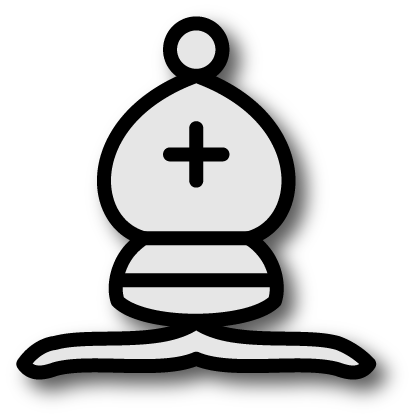
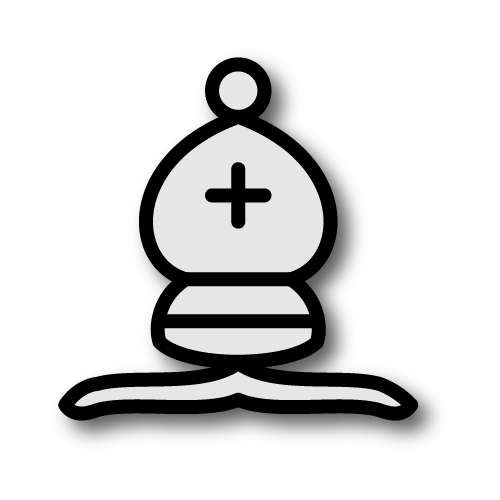
Adjusted piece images to line up with each other.

diff --git a/src/app/board/board.component.ts b/src/app/board/board.component.ts
@@ -1,4 +1,5 @@
-import { Component, OnInit } from '@angular/core';
+import { preserveWhitespacesDefault } from '@angular/compiler';
+import { Component, Input, OnInit } from '@angular/core';
 import { Color, PieceComponent, Type } from '../piece/piece.component';
 import { Space, SpaceComponent } from '../space/space.component';
 
@@ -10,8 +11,11 @@ import { Space, SpaceComponent } from '../space/space.component';
 export class BoardComponent implements OnInit {
   brown: boolean = false;
   public spaces = new Array();
+  playerIsWhite: boolean = true;
 
   constructor() {
+    let playerColor = this.playerIsWhite ? Color.white : Color.black;
+    let cpuColor = this.playerIsWhite ? Color.black : Color.white;
     for (let col = 0; col < 8; col++) {
       this.spaces[col] = new Array();
       for (let row = 0; row < 8; row++) {
@@ -20,35 +24,35 @@ export class BoardComponent implements OnInit {
         switch(col) {
           case 0:
           case 7:
-            if (row == 0) this.spaces[col][row].setPiece(Type.rook, Color.white);
-            if (row == 7) this.spaces[col][row].setPiece(Type.rook, Color.black);
+            if (row == 0) this.spaces[col][row].setPiece(Type.rook, cpuColor);
+            if (row == 7) this.spaces[col][row].setPiece(Type.rook, playerColor);
             break;
           case 1:
           case 6:
-            if (row == 0) this.spaces[col][row].setPiece(Type.knight, Color.white);
-            if (row == 7) this.spaces[col][row].setPiece(Type.knight, Color.black);
+            if (row == 0) this.spaces[col][row].setPiece(Type.knight, cpuColor);
+            if (row == 7) this.spaces[col][row].setPiece(Type.knight, playerColor);
             break;
           case 2:
           case 5:
-            if (row == 0) this.spaces[col][row].setPiece(Type.bishop, Color.white);
-            if (row == 7) this.spaces[col][row].setPiece(Type.bishop, Color.black);
+            if (row == 0) this.spaces[col][row].setPiece(Type.bishop, cpuColor);
+            if (row == 7) this.spaces[col][row].setPiece(Type.bishop, playerColor);
             break;
           case 3:
-            if (row == 0) this.spaces[col][row].setPiece(Type.king, Color.white);
-            if (row == 7) this.spaces[col][row].setPiece(Type.king, Color.black);
+            if (row == 0) this.spaces[col][row].setPiece(Type.king, cpuColor);
+            if (row == 7) this.spaces[col][row].setPiece(Type.king, playerColor);
             break;
           case 4:
-            if (row == 0) this.spaces[col][row].setPiece(Type.queen, Color.white);
-            if (row == 7) this.spaces[col][row].setPiece(Type.queen, Color.black);
+            if (row == 0) this.spaces[col][row].setPiece(Type.queen, cpuColor);
+            if (row == 7) this.spaces[col][row].setPiece(Type.queen, playerColor);
             break;  
         }
 
         if (row == 1) {
-          this.spaces[col][row].setPiece(Type.pawn, Color.white);
+          this.spaces[col][row].setPiece(Type.pawn, cpuColor);
         }
 
         if (row == 6) {
-          this.spaces[col][row].setPiece(Type.pawn, Color.black);
+          this.spaces[col][row].setPiece(Type.pawn, playerColor);
         }
       }
     }

diff --git a/src/app/space/space.component.css b/src/app/space/space.component.css
@@ -15,7 +15,7 @@ img {
 
 .piece {
     position: absolute;
-    /* width: 5%; */
-    transform: translate(90px, -400px);
+    /* background-color: greenyellow; */
+    transform: translate(-15px, -475px);
     z-index: 100;
 }

diff --git a/src/app/app.component.ts b/src/app/app.component.ts
@@ -6,5 +6,5 @@ import { Component } from '@angular/core';
   styleUrls: ['./app.component.css']
 })
 export class AppComponent {
-  title = 'chess-frontend';
+  title = 'Chess';
 }
